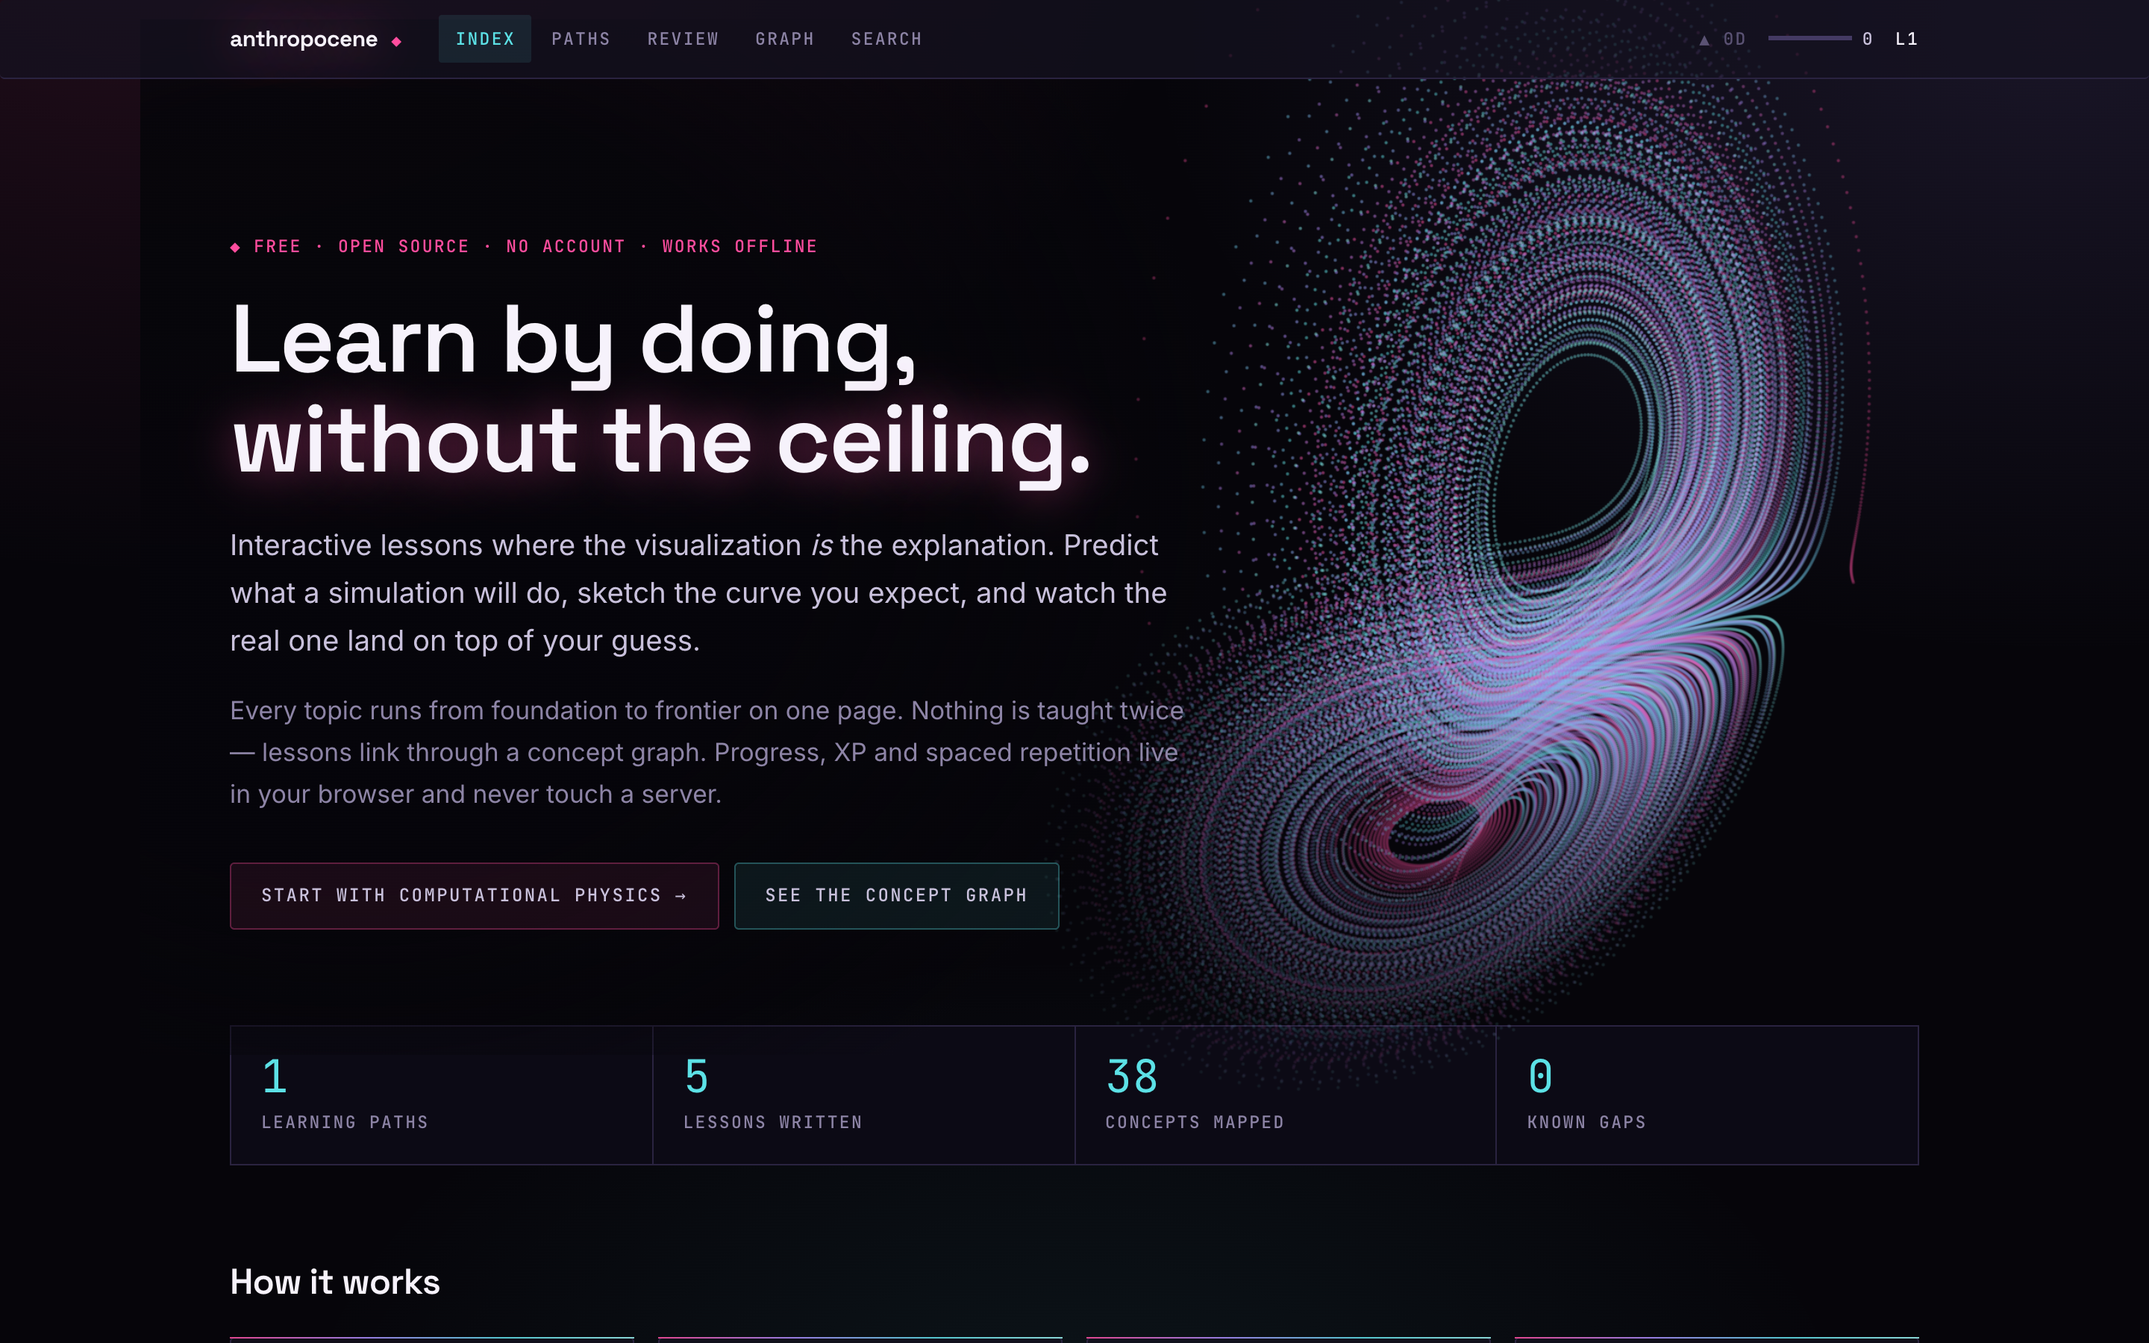
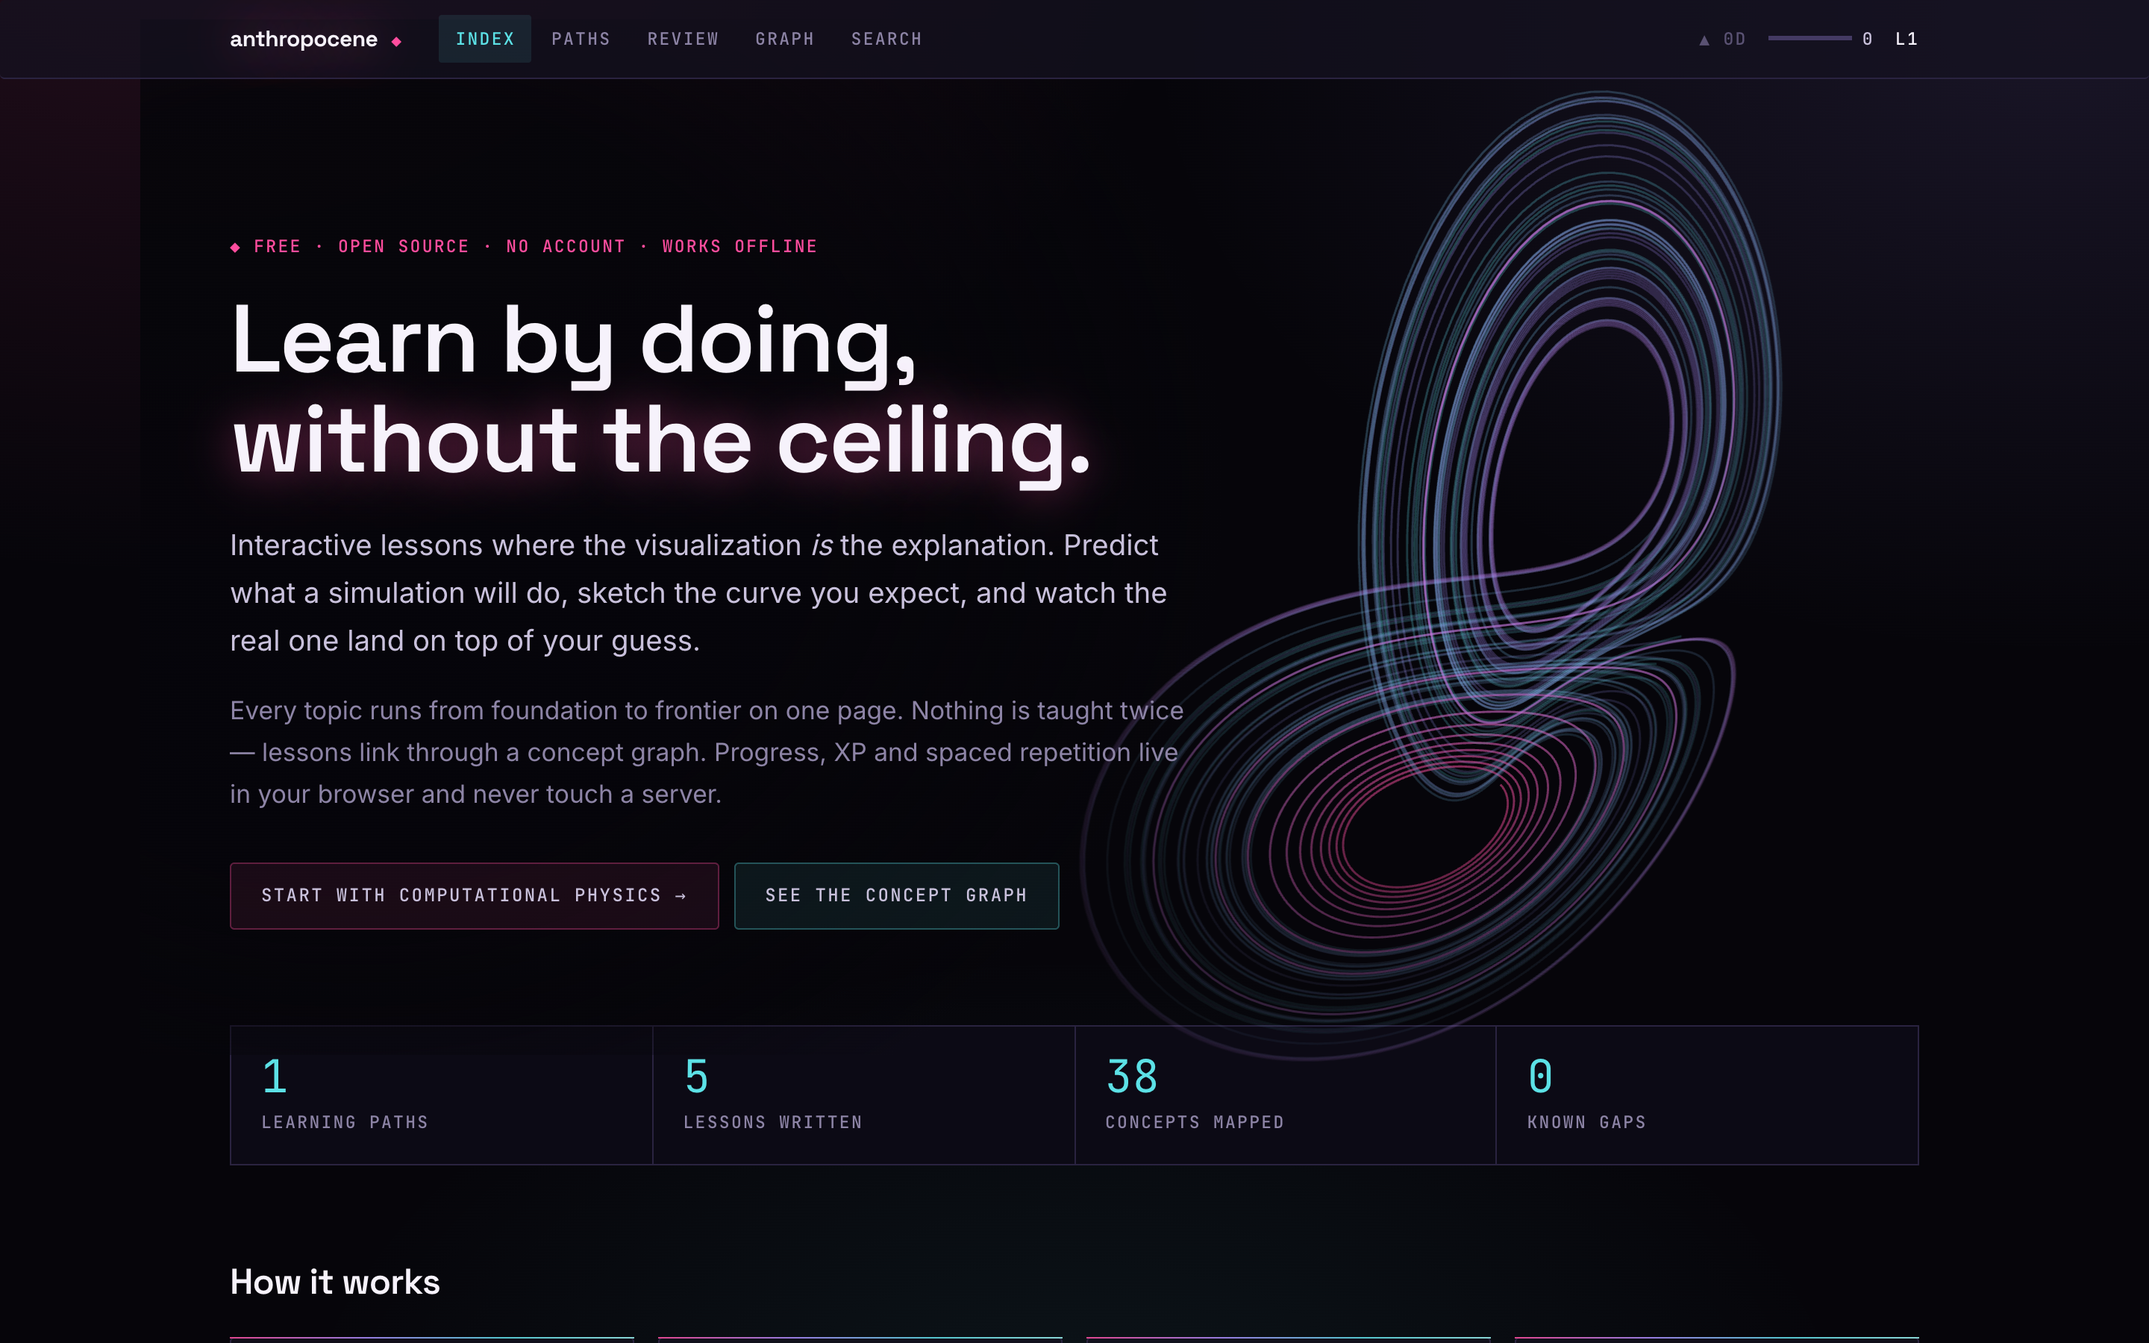
Draw the landing attractor as smooth ribbons instead of a point cloud
The 90k-point version was legible as an image but read as visual noise beside
body text, which is the opposite of what this background is for. Replaced with
five continuous trajectories rendered as triangle strips, expanded
perpendicular to the curve in screen space so each ribbon holds a constant
visual width regardless of depth.

Also calmer by design rather than only by density: the palette sweep is now a
single slow magenta-to-cyan pass along each trajectory instead of a fast cycle,
and peak alpha drops from 0.58 to 0.31. The attractor's shape carries the
image; the colour no longer competes for attention.

Each trajectory discards a 1500-step transient before recording, so every
ribbon starts on the attractor rather than flying in from the initial
condition.

Screenshot regenerated.

Changed region(s): [[0.5, 0.0622, 0.875, 0.7778]]

diff --git a/src/components/chrome/AttractorField.tsx b/src/components/chrome/AttractorField.tsx
@@ -1,76 +1,140 @@
 import { useEffect, useRef, useState } from 'react';
 
 /* ─────────────────────────────────────────────────────────────────────────
-   The landing-page background: a Lorenz attractor, drifting and reacting to
-   scroll.
+   The landing-page background: a Lorenz attractor drawn as a few smooth
+   ribbons, drifting and reacting to scroll.
 
-   Chosen because it is the subject matter rather than decoration bolted on.
-   The Lorenz system is the canonical example of why numerical integration is
-   hard — deterministic, bounded, and impossible to predict far ahead — so the
-   thing behind the headline is the thing the site teaches.
+   Chosen because it is the subject matter rather than decoration bolted on —
+   the Lorenz system is the canonical example of why numerical integration is
+   hard, so the thing behind the headline is the thing the site teaches. It is
+   integrated with RK4 because forward Euler visibly distorts the attractor,
+   which would be an embarrassing thing to ship here.
 
-   Written against raw WebGL2 rather than three.js: this is a static point
-   cloud with one rotating camera, and pulling ~600 KB of scene graph onto the
-   landing page to draw it would be a poor trade for a background.
+   Deliberately a small number of CONTINUOUS lines rather than a dense point
+   cloud. An earlier version drew 90k individual points; it was legible as an
+   image but it read as visual noise next to body text, and a busy background
+   beside prose is the thing this design is supposed to avoid. Smooth ribbons
+   with a slow gradient carry the same shape and sit still.
+
+   Raw WebGL2 rather than three.js: this is a handful of static curves and one
+   camera, and 600 KB of scene graph would be a poor trade for a background.
    ───────────────────────────────────────────────────────────────────────── */
 
-const N = 90_000;      // integration steps, one point each
-const DT = 0.0035;
+const TRAILS = 5;          // separate trajectories
+const STEPS = 5200;        // points per trajectory
+const DT = 0.0042;
 
-/** Classic Lorenz parameters — the ones that give the butterfly. */
 const SIGMA = 10, RHO = 28, BETA = 8 / 3;
 
-function buildAttractor(): { positions: Float32Array; shades: Float32Array } {
-  const positions = new Float32Array(N * 3);
-  const shades = new Float32Array(N);
+interface Ribbon { positions: Float32Array; nexts: Float32Array; sides: Float32Array; shades: Float32Array; counts: number[]; offsets: number[] }
 
-  let x = 0.9, y = 0, z = 1.2;
+/** Integrates the trajectories and expands each into a triangle strip. */
+function buildRibbons(): Ribbon {
+  const vertsPerTrail = STEPS * 2;
+  const total = vertsPerTrail * TRAILS;
 
-  // RK4 on the Lorenz system. Euler visibly distorts the attractor's shape at
-  // this step size, which would be an embarrassing thing to ship on the
-  // landing page of a numerical-methods site.
+  const positions = new Float32Array(total * 3);
+  const nexts = new Float32Array(total * 3);
+  const sides = new Float32Array(total);
+  const shades = new Float32Array(total);
+  const counts: number[] = [];
+  const offsets: number[] = [];
+
   const f = (a: number, b: number, c: number) =>
     [SIGMA * (b - a), a * (RHO - c) - b, a * b - BETA * c] as const;
 
-  for (let i = 0; i < N; i++) {
-    const k1 = f(x, y, z);
-    const k2 = f(x + (DT / 2) * k1[0], y + (DT / 2) * k1[1], z + (DT / 2) * k1[2]);
-    const k3 = f(x + (DT / 2) * k2[0], y + (DT / 2) * k2[1], z + (DT / 2) * k2[2]);
-    const k4 = f(x + DT * k3[0], y + DT * k3[1], z + DT * k3[2]);
+  let v = 0;
+  for (let trail = 0; trail < TRAILS; trail++) {
+    offsets.push(v);
 
-    x += (DT / 6) * (k1[0] + 2 * k2[0] + 2 * k3[0] + k4[0]);
-    y += (DT / 6) * (k1[1] + 2 * k2[1] + 2 * k3[1] + k4[1]);
-    z += (DT / 6) * (k1[2] + 2 * k2[2] + 2 * k3[2] + k4[2]);
+    // Nearby initial conditions: they track together, then separate. That
+    // divergence is the attractor's whole point, and it is what gives the
+    // ribbons their layered structure.
+    let x = 0.9 + trail * 0.0009;
+    let y = 0.4;
+    let z = 1.2;
 
-    positions[i * 3] = x;
-    positions[i * 3 + 1] = y;
-    positions[i * 3 + 2] = z - 25;    // centre the body of the attractor
-    shades[i] = i / N;                // colour along the trajectory, not by position
+    // Discard the transient so every ribbon starts on the attractor itself.
+    for (let i = 0; i < 1500; i++) {
+      const k1 = f(x, y, z);
+      const k2 = f(x + (DT / 2) * k1[0], y + (DT / 2) * k1[1], z + (DT / 2) * k1[2]);
+      const k3 = f(x + (DT / 2) * k2[0], y + (DT / 2) * k2[1], z + (DT / 2) * k2[2]);
+      const k4 = f(x + DT * k3[0], y + DT * k3[1], z + DT * k3[2]);
+      x += (DT / 6) * (k1[0] + 2 * k2[0] + 2 * k3[0] + k4[0]);
+      y += (DT / 6) * (k1[1] + 2 * k2[1] + 2 * k3[1] + k4[1]);
+      z += (DT / 6) * (k1[2] + 2 * k2[2] + 2 * k3[2] + k4[2]);
+    }
+
+    const path = new Float32Array(STEPS * 3);
+    for (let i = 0; i < STEPS; i++) {
+      path[i * 3] = x;
+      path[i * 3 + 1] = y;
+      path[i * 3 + 2] = z - 25;          // centre the attractor body
+
+      const k1 = f(x, y, z);
+      const k2 = f(x + (DT / 2) * k1[0], y + (DT / 2) * k1[1], z + (DT / 2) * k1[2]);
+      const k3 = f(x + (DT / 2) * k2[0], y + (DT / 2) * k2[1], z + (DT / 2) * k2[2]);
+      const k4 = f(x + DT * k3[0], y + DT * k3[1], z + DT * k3[2]);
+      x += (DT / 6) * (k1[0] + 2 * k2[0] + 2 * k3[0] + k4[0]);
+      y += (DT / 6) * (k1[1] + 2 * k2[1] + 2 * k3[1] + k4[1]);
+      z += (DT / 6) * (k1[2] + 2 * k2[2] + 2 * k3[2] + k4[2]);
+    }
+
+    // Two vertices per path point, offset either side of the curve in the
+    // shader. The last point reuses its own position as `next`, giving a
+    // zero-length tangent that the shader falls back on.
+    for (let i = 0; i < STEPS; i++) {
+      const j = Math.min(i + 1, STEPS - 1);
+      for (const side of [1, -1]) {
+        positions[v * 3] = path[i * 3];
+        positions[v * 3 + 1] = path[i * 3 + 1];
+        positions[v * 3 + 2] = path[i * 3 + 2];
+        nexts[v * 3] = path[j * 3];
+        nexts[v * 3 + 1] = path[j * 3 + 1];
+        nexts[v * 3 + 2] = path[j * 3 + 2];
+        sides[v] = side;
+        shades[v] = i / STEPS;
+        v++;
+      }
+    }
+    counts.push(vertsPerTrail);
   }
-  return { positions, shades };
+
+  return { positions, nexts, sides, shades, counts, offsets };
 }
 
 const VERT = `#version 300 es
 in vec3 a_pos;
+in vec3 a_next;
+in float a_side;
 in float a_shade;
 
 uniform mat4 u_mvp;
-uniform float u_size;
-uniform float u_reveal;
+uniform float u_width;     // half-width in clip units
+uniform float u_aspect;
 
 out float v_shade;
 out float v_depth;
 
 void main() {
   vec4 clip = u_mvp * vec4(a_pos, 1.0);
+  vec4 clipNext = u_mvp * vec4(a_next, 1.0);
+
+  // Expand perpendicular to the curve in SCREEN space, so the ribbon keeps a
+  // constant visual width regardless of depth. Aspect correction keeps it from
+  // going oval on a wide viewport.
+  vec2 ndc = clip.xy / max(clip.w, 1e-4);
+  vec2 ndcNext = clipNext.xy / max(clipNext.w, 1e-4);
+  vec2 delta = (ndcNext - ndc) * vec2(u_aspect, 1.0);
+
+  vec2 dir = length(delta) > 1e-6 ? normalize(delta) : vec2(1.0, 0.0);
+  vec2 normal = vec2(-dir.y, dir.x) / vec2(u_aspect, 1.0);
+
+  clip.xy += normal * a_side * u_width * clip.w;
   gl_Position = clip;
 
-  // Perspective-correct point size, clamped so near points do not become blobs.
-  float d = max(clip.w, 0.001);
-  gl_PointSize = clamp(u_size / d, 1.0, 5.5);
-
   v_shade = a_shade;
-  v_depth = clamp(1.0 - (d - 20.0) / 70.0, 0.0, 1.0);
+  v_depth = clamp(1.0 - (clip.w - 24.0) / 74.0, 0.0, 1.0);
 }`;
 
 const FRAG = `#version 300 es
@@ -82,53 +146,38 @@ out vec4 outColor;
 
 uniform float u_fade;
 
+/* A slow sweep across the palette rather than a fast cycle: fast cycling is
+   what made the point-cloud version read as confetti. */
 vec3 iridescent(float t) {
   vec3 magenta = vec3(1.000, 0.302, 0.620);
   vec3 iris    = vec3(0.655, 0.545, 0.980);
   vec3 cyan    = vec3(0.361, 0.882, 0.902);
-  vec3 aqua    = vec3(0.604, 0.961, 0.941);
-  t = fract(t);
-  if (t < 0.34) return mix(magenta, iris, t / 0.34);
-  if (t < 0.68) return mix(iris, cyan, (t - 0.34) / 0.34);
-  return mix(cyan, aqua, (t - 0.68) / 0.32);
+  t = clamp(t, 0.0, 1.0);
+  return t < 0.5 ? mix(magenta, iris, t / 0.5) : mix(iris, cyan, (t - 0.5) / 0.5);
 }
 
 void main() {
-  // Round, soft-edged points. Square points read as noise at this density.
-  vec2 d = gl_PointCoord - 0.5;
-  float r = length(d);
-  if (r > 0.5) discard;
-  float soft = 1.0 - smoothstep(0.16, 0.5, r);
-
-  vec3 col = iridescent(v_shade * 1.6);
-  float a = soft * (0.12 + 0.46 * v_depth) * u_fade;
+  vec3 col = iridescent(v_shade);
+  float a = (0.05 + 0.26 * v_depth) * u_fade;
   outColor = vec4(col * a, a);
 }`;
 
-/** Column-major perspective * lookAt * rotateY, built by hand to avoid a
- *  matrix library for four multiplications. */
 function mvp(aspect: number, yaw: number, pitch: number, dist: number): Float32Array {
   const fov = 1.05, near = 0.1, far = 400;
   const f = 1 / Math.tan(fov / 2);
-
   const cy = Math.cos(yaw), sy = Math.sin(yaw);
   const cp = Math.cos(pitch), sp = Math.sin(pitch);
 
-  // rotate about Y then X, then translate away from the camera
-  const r = [
-    cy, sp * sy, -cp * sy,
-    0, cp, sp,
-    sy, -sp * cy, cp * cy,
-  ];
+  const r = [cy, sp * sy, -cp * sy, 0, cp, sp, sy, -sp * cy, cp * cy];
 
   const m = new Float32Array(16);
   const p00 = f / aspect, p11 = f;
   const p22 = (far + near) / (near - far), p23 = (2 * far * near) / (near - far);
 
-  m[0] = p00 * r[0];  m[1] = p11 * r[3];  m[2] = p22 * r[6];             m[3] = -r[6];
-  m[4] = p00 * r[1];  m[5] = p11 * r[4];  m[6] = p22 * r[7];             m[7] = -r[7];
-  m[8] = p00 * r[2];  m[9] = p11 * r[5];  m[10] = p22 * r[8];            m[11] = -r[8];
-  m[12] = 0;          m[13] = 0;          m[14] = p22 * -dist + p23;     m[15] = dist;
+  m[0] = p00 * r[0];  m[1] = p11 * r[3];  m[2] = p22 * r[6];          m[3] = -r[6];
+  m[4] = p00 * r[1];  m[5] = p11 * r[4];  m[6] = p22 * r[7];          m[7] = -r[7];
+  m[8] = p00 * r[2];  m[9] = p11 * r[5];  m[10] = p22 * r[8];         m[11] = -r[8];
+  m[12] = 0;          m[13] = 0;          m[14] = p22 * -dist + p23;  m[15] = dist;
   return m;
 }
 
@@ -140,7 +189,7 @@ export default function AttractorField() {
     const canvas = canvasRef.current;
     if (!canvas) return;
 
-    const gl = canvas.getContext('webgl2', { antialias: false, alpha: true, premultipliedAlpha: true });
+    const gl = canvas.getContext('webgl2', { antialias: true, alpha: true, premultipliedAlpha: true });
     if (!gl) { setOk(false); return; }
 
     const compile = (type: number, src: string) => {
@@ -163,38 +212,40 @@ export default function AttractorField() {
     gl.linkProgram(prog);
     if (!gl.getProgramParameter(prog, gl.LINK_STATUS)) { setOk(false); return; }
 
-    const { positions, shades } = buildAttractor();
-
+    const rib = buildRibbons();
     const vao = gl.createVertexArray();
     gl.bindVertexArray(vao);
 
-    const posBuf = gl.createBuffer();
-    gl.bindBuffer(gl.ARRAY_BUFFER, posBuf);
-    gl.bufferData(gl.ARRAY_BUFFER, positions, gl.STATIC_DRAW);
-    const aPos = gl.getAttribLocation(prog, 'a_pos');
-    gl.enableVertexAttribArray(aPos);
-    gl.vertexAttribPointer(aPos, 3, gl.FLOAT, false, 0, 0);
-
-    const shadeBuf = gl.createBuffer();
-    gl.bindBuffer(gl.ARRAY_BUFFER, shadeBuf);
-    gl.bufferData(gl.ARRAY_BUFFER, shades, gl.STATIC_DRAW);
-    const aShade = gl.getAttribLocation(prog, 'a_shade');
-    gl.enableVertexAttribArray(aShade);
-    gl.vertexAttribPointer(aShade, 1, gl.FLOAT, false, 0, 0);
+    const bind = (data: Float32Array, name: string, size: number) => {
+      const buf = gl.createBuffer();
+      gl.bindBuffer(gl.ARRAY_BUFFER, buf);
+      gl.bufferData(gl.ARRAY_BUFFER, data, gl.STATIC_DRAW);
+      const loc = gl.getAttribLocation(prog, name);
+      gl.enableVertexAttribArray(loc);
+      gl.vertexAttribPointer(loc, size, gl.FLOAT, false, 0, 0);
+      return buf;
+    };
+    const buffers = [
+      bind(rib.positions, 'a_pos', 3),
+      bind(rib.nexts, 'a_next', 3),
+      bind(rib.sides, 'a_side', 1),
+      bind(rib.shades, 'a_shade', 1),
+    ];
 
     const uMvp = gl.getUniformLocation(prog, 'u_mvp');
-    const uSize = gl.getUniformLocation(prog, 'u_size');
+    const uWidth = gl.getUniformLocation(prog, 'u_width');
+    const uAspect = gl.getUniformLocation(prog, 'u_aspect');
     const uFade = gl.getUniformLocation(prog, 'u_fade');
 
     gl.enable(gl.BLEND);
-    gl.blendFunc(gl.ONE, gl.ONE_MINUS_SRC_ALPHA);   // premultiplied, additive-ish glow
+    gl.blendFunc(gl.ONE, gl.ONE_MINUS_SRC_ALPHA);
 
     const reduced = window.matchMedia?.('(prefers-reduced-motion: reduce)').matches ?? false;
+    const dpr = Math.min(window.devicePixelRatio || 1, 2);
 
-    let dpr = Math.min(window.devicePixelRatio || 1, 1.75);
     const resize = () => {
-      const w = canvas.clientWidth, h = canvas.clientHeight;
-      const W = Math.round(w * dpr), H = Math.round(h * dpr);
+      const W = Math.round(canvas.clientWidth * dpr);
+      const H = Math.round(canvas.clientHeight * dpr);
       if (canvas.width !== W || canvas.height !== H) {
         canvas.width = W; canvas.height = H;
         gl.viewport(0, 0, W, H);
@@ -204,8 +255,6 @@ export default function AttractorField() {
     ro.observe(canvas);
     resize();
 
-    // Scroll drives the camera. Smoothed, because raw scroll position makes
-    // the motion feel jittery and cheap.
     let scrollTarget = 0;
     let scrollEased = 0;
     const onScroll = () => {
@@ -222,23 +271,27 @@ export default function AttractorField() {
     const frame = (now: number) => {
       const t = (now - t0) / 1000;
       scrollEased += (scrollTarget - scrollEased) * 0.06;
-      fade = Math.min(fade + 0.012, 1);          // gentle fade-in on load
+      fade = Math.min(fade + 0.011, 1);
 
       resize();
       gl.clearColor(0, 0, 0, 0);
       gl.clear(gl.COLOR_BUFFER_BIT);
 
-      const yaw = reduced ? 0.7 : 0.7 + t * 0.045 + scrollEased * 2.4;
-      const pitch = -0.22 + scrollEased * 0.55;
-      const dist = 56 - scrollEased * 16;
+      const aspect = canvas.width / Math.max(canvas.height, 1);
+      const yaw = reduced ? 0.7 : 0.7 + t * 0.035 + scrollEased * 2.2;
+      const pitch = -0.2 + scrollEased * 0.5;
+      const dist = 58 - scrollEased * 14;
 
       gl.useProgram(prog);
       gl.bindVertexArray(vao);
-      gl.uniformMatrix4fv(uMvp, false, mvp(canvas.width / Math.max(canvas.height, 1), yaw, pitch, dist));
-      gl.uniform1f(uSize, 260 * dpr);
-      // Fades out as the reader scrolls into the text, so it never competes.
-      gl.uniform1f(uFade, fade * (1 - scrollEased * 0.55));
-      gl.drawArrays(gl.POINTS, 0, N);
+      gl.uniformMatrix4fv(uMvp, false, mvp(aspect, yaw, pitch, dist));
+      gl.uniform1f(uWidth, 0.0016);
+      gl.uniform1f(uAspect, aspect);
+      gl.uniform1f(uFade, fade * (1 - scrollEased * 0.6));
+
+      for (let i = 0; i < rib.counts.length; i++) {
+        gl.drawArrays(gl.TRIANGLE_STRIP, rib.offsets[i], rib.counts[i]);
+      }
 
       raf = requestAnimationFrame(frame);
     };
@@ -249,8 +302,7 @@ export default function AttractorField() {
       window.removeEventListener('scroll', onScroll);
       ro.disconnect();
       gl.deleteProgram(prog);
-      gl.deleteBuffer(posBuf);
-      gl.deleteBuffer(shadeBuf);
+      for (const b of buffers) gl.deleteBuffer(b);
       gl.deleteVertexArray(vao);
     };
   }, []);
@@ -265,7 +317,6 @@ export default function AttractorField() {
         inset: 0,
         zIndex: 0,
         pointerEvents: 'none',
-        // Held off the reading column so the text never sits on top of detail.
         maskImage:
           'radial-gradient(82% 88% at 76% 30%, #000 24%, transparent 78%), linear-gradient(90deg, transparent 0%, transparent 38%, #000 60%)',
         WebkitMaskImage:
